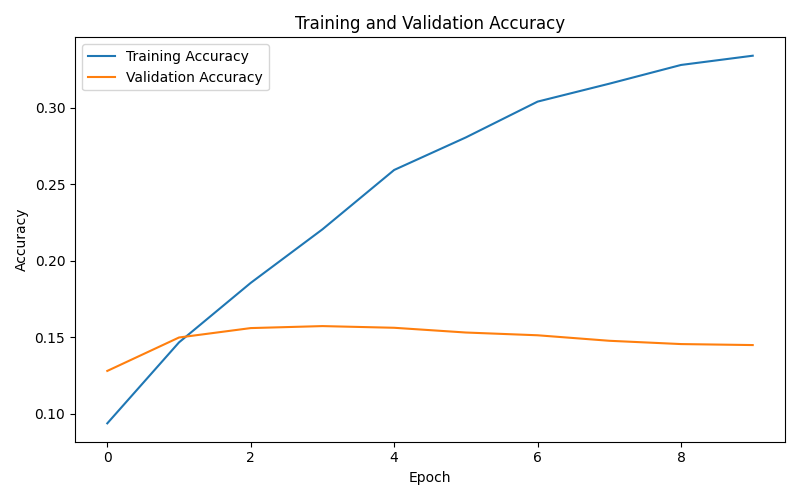
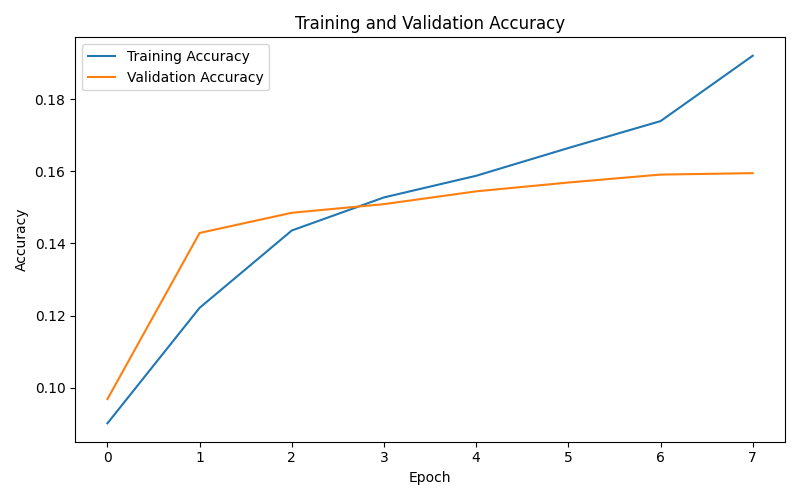
Splitting the data and training the model - final

diff --git a/src/model/build_model.py b/src/model/build_model.py
@@ -1,9 +1,30 @@
 from tensorflow.keras.models import Sequential
-from tensorflow.keras.layers import Dense
+from tensorflow.keras.layers import Dense, Input, Dropout
+from tensorflow.keras.regularizers import l2
+
+
 def build_model(input_size, vocab_size):
+
     model = Sequential([
-        Dense(128,activation = "relu",input_shape = (input_size,)),
-        Dense(64,activation = "relu"),
-        Dense(vocab_size,activation = "softmax")
+        Input(shape=(input_size,)),
+
+        Dense(
+            128,
+            activation="relu",
+            kernel_regularizer=l2(0.0001)
+        ),
+
+        Dropout(0.3),
+
+        Dense(
+            64,
+            activation="relu",
+            kernel_regularizer=l2(0.0001)
+        ),
+
+        Dropout(0.2),
+
+        Dense(vocab_size, activation="softmax")
     ])
+
     return model

diff --git a/src/model/train_model.py b/src/model/train_model.py
@@ -207,6 +207,13 @@ model.summary()
 # --------------------------------------------------
 
 # Reduce learning rate when validation loss stops improving.
+early_stopping = tf.keras.callbacks.EarlyStopping(
+    monitor="val_loss",
+    patience=3,
+    restore_best_weights=True,
+    verbose=1
+)
+
 reduce_lr = tf.keras.callbacks.ReduceLROnPlateau(
     monitor="val_loss",
     factor=0.5,
@@ -239,6 +246,7 @@ history = model.fit(
     epochs=EPOCHS,
     validation_data=validation_data,
     callbacks=[
+        early_stopping,
         reduce_lr,
         checkpoint
     ],
